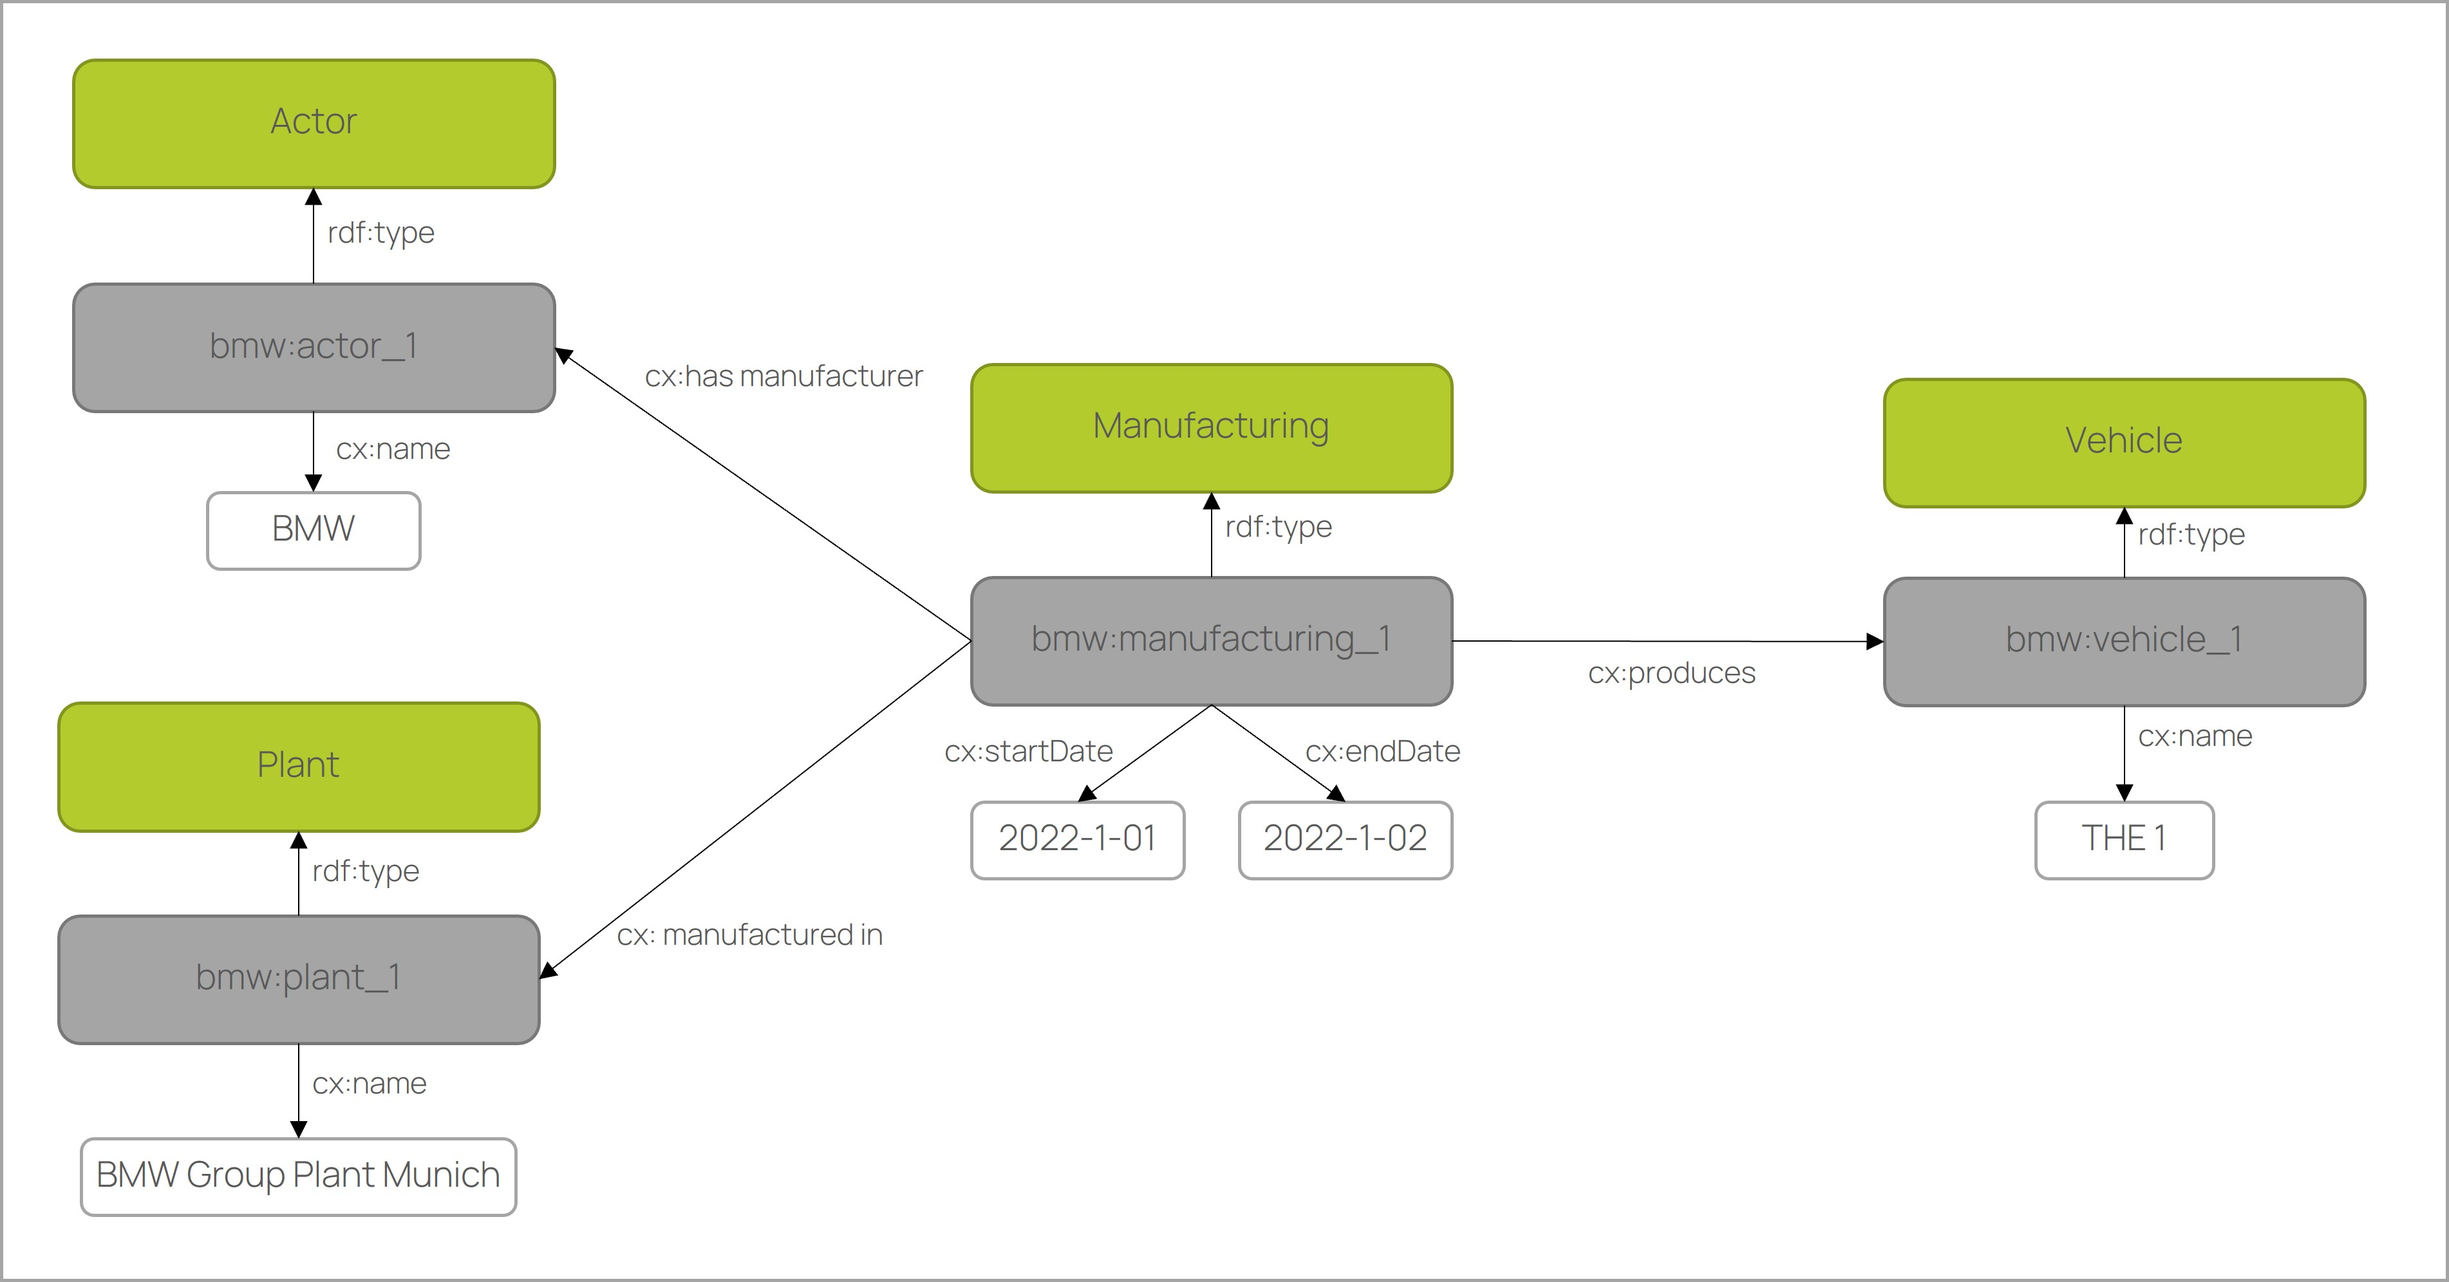
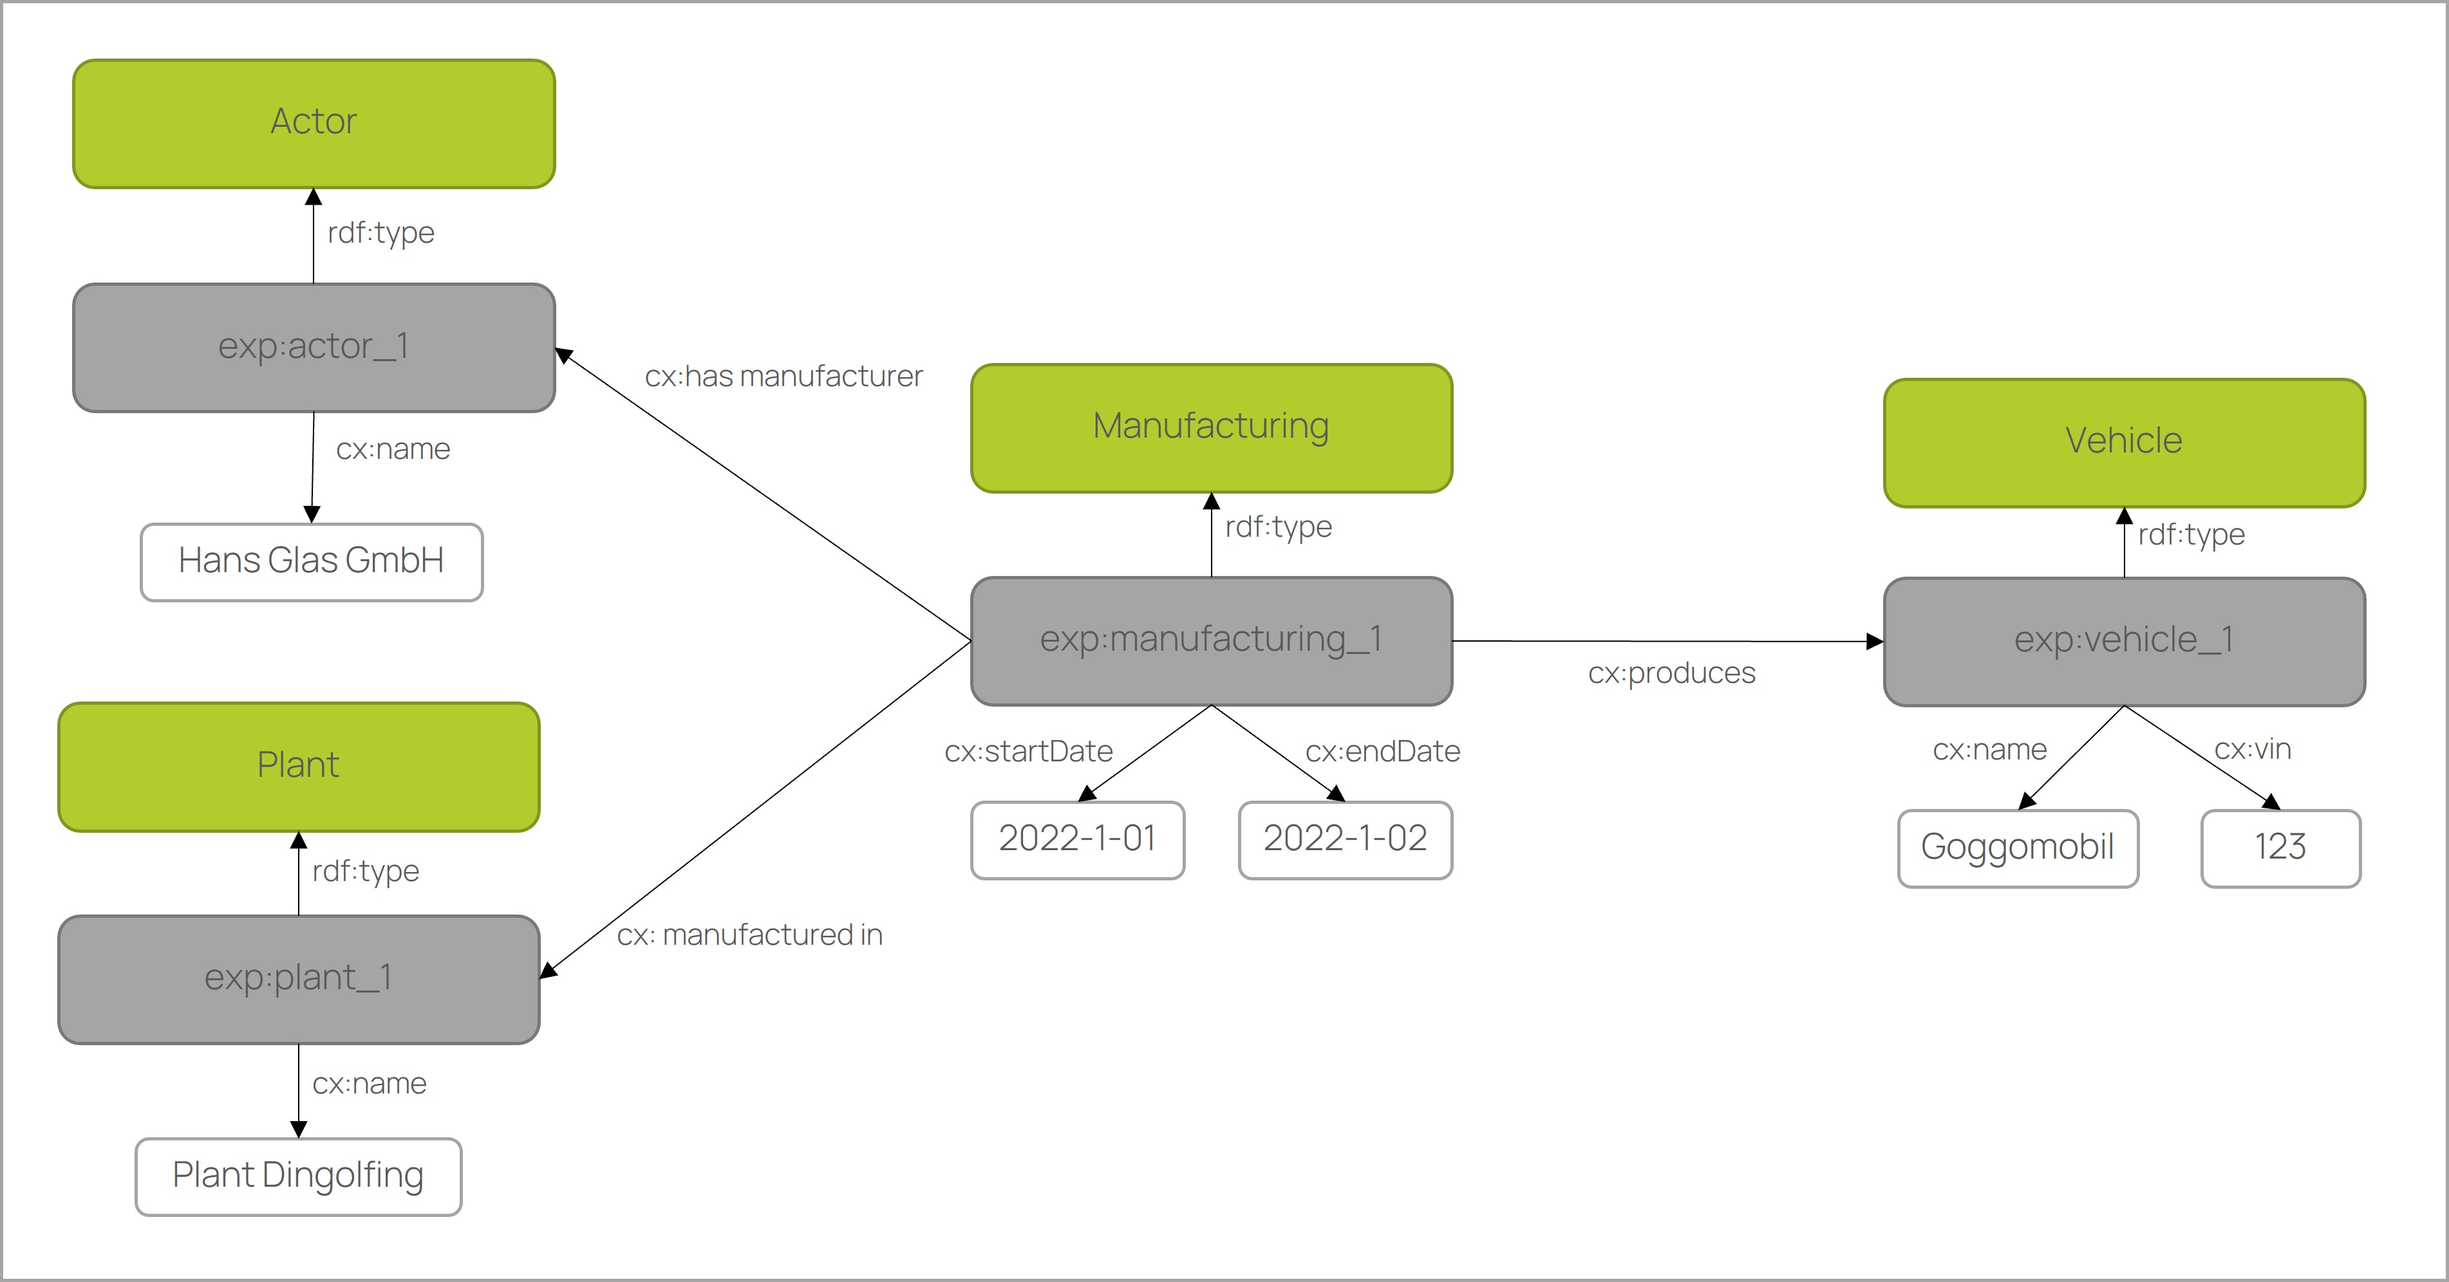
CX - 0000 Ontology Models in Catena-X v.1.0.0 Update

diff --git a/docs/adoption-view/CX-00XX-Ontology Models in Catena-X_v1.0.0.md b/docs/adoption-view/CX-00XX-Ontology Models in Catena-X_v1.0.0.md
@@ -60,7 +60,7 @@ This standard gives fundamental guidelines to create ontology models for being u
 
 ## 1. INTRODUCTION
 
-Semantics is the art and science of understanding what data means. In the context of Catena-X this topic has a significant importance in the sense that data provider and consumer need to have the same understanding what data needs to be shared (see also [FAIR data](https://en.wikipedia.org/wiki/FAIR_data)). In the knowledge agent approach, ontologies are used to describe the semantics of data. Ontologies are similar to data models or data schemas in which the semantics and structure of data are described. In addition, ontologies provide a high degree of semantic expressiveness, i.e. formal semantics. This means that there is a logical system behind the ontologies. This allows automatic inference on data like "p-123" is_a part and part is_a physical object => "p-123" is_a physical object. Such inference enables strong typing of data. This way the machine can understand the meaning of the vocabulary 'part', that it is a physical object and not a document part or a design model part. It could be that the same vocabularies are used for different things in different data models. The formal semantics of ontologies can prevent such misunderstandings in data caused by synonymity or homonymity, etc. and lead to better collaboration and interoperability between data space participants.
+Semantics is the art and science of understanding what data means. In the context of Catena-X this topic has a significant importance in the sense that data provider and consumer need to have the same understanding what data needs to be shared (see also [FAIR data](https://en.wikipedia.org/wiki/FAIR_data)). In the knowledge agent approach, ontologies are used to describe the semantics of data. Ontologies are similar to data models or data schemas in which the semantics and structure of data are described. In addition, ontologies provide a high degree of semantic expressiveness, i.e. formal semantics. This means that there is a logical system behind the ontologies. This allows automatic inference on data like "p-123" is_a part and part is_a physical object => "p-123" is_a physical object. Such inference enables strong typing of data. This way the machine can understand the meaning of the vocabulary 'part', that it is a physical object and not a document part or a design model part. It could be that the same vocabularies are used for different things in different data models. The formal semantics of ontologies prevent such misunderstandings in data caused by synonymity or homonymity, etc. and lead to better collaboration and interoperability among data space participants. On the other hand, the ontology-based approach represents the underlying data in assets as a graph structure. This allows flexible querying of typed and linked data.
 
 In applying the ontology-based data modelling in Catena-X, the following fundamentals should be achieved:
 
@@ -92,7 +92,7 @@ Created ontology models can be utilized as semantic basis for the so called "kno
 
 ### 1.2 CONTEXT
 
-The knowledge agent approach uses the [Semantic Web standards](https://www.w3.org/2001/sw/wiki/Main_Page). The [Semantic Web](https://en.wikipedia.org/wiki/Semantic_Web) is the semantic extension of the Web. In the Web, the content of Web pages is exchanged in a document-based way (Web of Documents). This has the disadvantage that a direct access to a certain content of the documents is not possible. Therefore, a new concept was developed in which the contents of documents are decomposed into data and described by data models (Web of Data). At the same time, a query language was developed with which the desired content can be queried directly. In the Semantic Web, the data models are called ontologies, based on the philosophical meaning 'study of being', because the data on the Web is the digital representation of things in the real world. Semantic Web ontologies are formal languages in which data can be described unambiguously and without redundancy. This makes the ever-growing volumes of data on the web more manageable and usable to generate new knowledge. A good example is the [DBpedia project](https://en.wikipedia.org/wiki/DBpedia), which makes Wikipedia content available as data. In recent years, Semantic Web standards have been increasingly used in enterprises to create enterprise-wide [knowledge graphs](https://en.wikipedia.org/wiki/Knowledge_graph) to structure internal big data and make it queryable to create knowledge. This concept is implemented for Catena-X in the knowledge agent approach.
+The knowledge agent approach uses the [Semantic Web standards](https://www.w3.org/2001/sw/wiki/Main_Page). The [Semantic Web](https://en.wikipedia.org/wiki/Semantic_Web) is the semantic extension of the Web. In the Web, the content of Web pages is exchanged in a document-based way (Web of Documents). This has the disadvantage that a direct access to a certain content of the documents is not possible. Therefore, a new concept was developed in which the contents of documents are decomposed into data and described by data models (Web of Data). At the same time, a query language was developed with which the desired content can be queried directly. In the Semantic Web, the data models are called ontologies, based on the philosophical meaning 'study of being', because the data on the Web is the digital representation of things in the real world. Semantic Web ontologies are formal languages in which data can be described unambiguously and without redundancy. This makes the ever-growing volumes of data on the web more manageable and usable to generate new knowledge. A good example is the [DBpedia project](https://en.wikipedia.org/wiki/DBpedia), which makes Wikipedia content available as data. In recent years, Semantic Web standards have been increasingly used in enterprises to create enterprise-wide [knowledge graphs](https://en.wikipedia.org/wiki/Knowledge_graph) to structure internal big data and make it queryable to create knowledge. This concept is extended in the Knowledge Agent approach to realize data exchange across the Catena-X dataspace.
 
 Semantic Web Standards used in knowledge agent approach
 
@@ -202,7 +202,7 @@ Activity-centred or event-based modelling is a well-known approach (see also [CI
 
 #### **2.1.3 Core and Domain Ontologies**
 
-The concept described above is the basic modelling pattern in Knowledge Agent. We call it the [core ontology](https://github.com/catenax-ng/product-ontology/blob/main/ontology/core_ontology.ttl). Based on this ontology, specific domain ontologies can be modelled. A domain ontology can be created based on subclasses (e.g. Manufacturing is SubClassOf Activity), subrelations (e.g. has Manufacturer is SubPropertyOf has Participant) and subattributes. The domain ontology has the same structure as the core ontology, but can be extended to include additional classes.
+The concept described above is the basic modelling pattern in Knowledge Agent. We call it the [core ontology](https://github.com/catenax-ng/product-ontology/blob/main/ontology/core_ontology.ttl). Based on this ontology, specific domain ontologies can be modelled. A domain ontology can be created based on subclasses (e.g. Manufacturing is SubClassOf Activity), subrelations (e.g. has Manufacturer is SubPropertyOf has Participant) and subattributes. The domain ontology has the same structure as the core ontology, but can be extended to include additional classes. The Knowledge Agent approach uses OWL 2 QL for modeling. This is a subset of OWL 2 Full. The reason for this is that it includes most of the main features of conceptual models such as UML class diagrams and ER diagrams. It also provides polynomial time inference for large data sets.
 
 Benefits of the basic modelling pattern:
 
@@ -237,9 +237,9 @@ The RDF graphs can be accessed using the SPARQL query language via a SPARQL HTTP
 General query example: Returns all physical objects and their name and activities.
 
 ~~~s
-@prefix cx-core: <https://w3id.org/catenax/ontology/core#>
-@prefix rdf: <http://www.w3.org/1999/02/22-rdf-syntax-ns#>
-@prefix bmw: <https://www.bmw.de/catenax/data#>
+PREFIX cx: <https://w3id.org/catenax/ontology/core#>
+PREFIX rdf: <http://www.w3.org/1999/02/22-rdf-syntax-ns#>
+PREFIX exp: <http://www.example.com#>
 
 select ?activity ?physicalObject
 where {
@@ -254,16 +254,16 @@ Query result:
 
 | ?activity   | ?physicalObject |?name|
 | ----------- | ----------- | ----------- |
-|bmw:manufacturing_1|bmw:vehicle_1|"THE 1"|
+|exp:manufacturing_1|exp:vehicle_1|"Goggomobil"|
 
 <br/>
 
 Specific query example: Returns all vehicles and their name and manufacturing activities.
 
 ~~~s
-@prefix cx-core: <https://w3id.org/catenax/ontology/core#>
-@prefix rdf: <http://www.w3.org/1999/02/22-rdf-syntax-ns#>
-@prefix bmw: <https://www.bmw.de/catenax/data#>
+PREFIX cx: <https://w3id.org/catenax/ontology/core#>
+PREFIX rdf: <http://www.w3.org/1999/02/22-rdf-syntax-ns#>
+PREFIX exp: <http://www.example.com#>
 
 select ?activity ?physicalObject
 where {
@@ -280,7 +280,7 @@ Query result is the same as the first one:
 
 | ?activity   | ?physicalObject |?name|
 | ----------- | ----------- | ----------- |
-|bmw:manufacturing_1|bmw:vehicle_1|"THE 1"|
+|exp:manufacturing_1|exp:vehicle_1|"Goggomobil"|
 <br/>
 
 #### **2.1.6 Federated Query**
@@ -289,42 +289,44 @@ An important advantage of SPARQL is that multiple repositories can be accessed f
 
 <br/>
 <div align="center"  width="100%">
-  <img src="images/example_2.jpg" alt="image" width="1000" height="auto" />
+  <img src="images/example.jpg" alt="image" width="1000" height="auto" />
 </div>
 <br/>
 
-Federated query example: Returns all vehicle names from BMW Asset and for the same vehicles the names of the diagnosis results from ADAC Asset.
+Federated query example: Returns all vehicle names from OEM Asset and for the same vehicles the names of the diagnosis results from Service Asset.
 
 ~~~s
-@prefix cx-core: <https://w3id.org/catenax/ontology/core#>
-@prefix rdf: <http://www.w3.org/1999/02/22-rdf-syntax-ns#>
+PREFIX cx: <https://w3id.org/catenax/ontology/core#>
+PREFIX rdf: <http://www.w3.org/1999/02/22-rdf-syntax-ns#>
 
-select ?vehicleName ?diagnosisResultName
+select ?vehicleName ?vehicleVin ?vehicleVin ?diagnosisResultName
 where {
-
-  # BMW Asset
-  SERVICE <https://www.bmw.de/catenax/asset_1> {
-
-    ?physicalObject rdf:type cx:Vehicle.
-    ?physicalObject cx:name ?vehicleName.
-
-    #ADAC Asset
-    SERVICE <https://www.adac.de/catenax/asset_1> {
-
-      ?physicalObject rdf:type cx:Vehicle.
-      ?activity cx:refersToConceptualObject ?conceptualObject.
-      ?conceptualObject cx:name ?diagnosisResultName.
-
+  
+  # OEM Asset
+  SERVICE <https://catena-x.net/asset/oem/asset_1> {
+    ?physicalObjectOEM rdf:type cx:Vehicle.
+    ?physicalObjectOEM cx:vin ?vehicleVin.
+    
+    #Service Asset
+    SERVICE <https://catena-x.net/asset/service/asset_2> {
+      ?physicalObjectService rdf:type cx:Vehicle.
+      ?physicalObjectService cx:vin ?vehicleVin.
+      ?physicalObjectService cx:name ?vehicleName.
+      ?activity rdf:type cx:Diagnosis.      
+      ?activity cx:refersToPhysicalObject ?physicalObjectService.
+      ?activity cx:refersToConceptualObject ?conceptualObject.
+      ?conceptualObject cx:name ?diagnosisResultName.
     }
-  }
+  }
 }
+
 ~~~
 
 Federated Query result:
 
-| ?vehicleName   | ?diagnosisResultName |
-| ----------- | ----------- |
-|"THE 1"|"Cylinder misfire"|
+| ?vehicleName   | ?vehicleVin | ?diagnosisResultName |
+| ----------- | ----------- | ----------- |
+|"Goggomobil"| "123" |"Cylinder misfire"|
 
 <br/>
 
@@ -343,7 +345,7 @@ This section defines modelling guidelines that help develop compliant domain ont
 
 #### **2.2.1 Content Modelling Guidelines**
 
-In order to effectively develop useful and reusable ontologies, all of the following modelling guidelines must be followed.
+In order to effectively develop useful and reusable ontologies, all of the following modelling guidelines SHOULD be followed.
 
 - G11 Define business requirments
   - Who knows, produces, consumes the data?
@@ -372,12 +374,11 @@ In order to effectively develop useful and reusable ontologies, all of the follo
   - Specify the (machine-readable) identifier in English
   - Use only noun or a phrase of nouns in lower case with whitespaces
   - Use generic terms here, so that everyone can easily understand the meaning
-  - Don't acronyms and abbreviations here
+  - Don't use acronyms and abbreviations here
   - Specify the (human-readable) name in English and German
   - Use only noun or a phrase of nouns in title case with whitespaces
   - Use business terms here, so that the business department can easily understand the meaning
   - Specify the definition in English, only short sentence
-  - Specify the synonyms in English and German
 - G15 Create Relations
   - Check & reuse if realtion already exists in core ontology, check also for the synonyms
   - Specify the (machine-readable) identifier in English
@@ -385,7 +386,6 @@ In order to effectively develop useful and reusable ontologies, all of the follo
   - Don't invent new relations, instead reuse existing relations
   - Specify the domain
   - Specify the range
-  - Specify the inverse relation
 - G16 Create Attributes
   - Check & reuse if attribute already exists in core ontology, check also for the synonyms
   - Specify the (machine-readable) identifier in English
@@ -396,7 +396,6 @@ In order to effectively develop useful and reusable ontologies, all of the follo
   - Don't use verbs in attribute identifiers
   - Specify the (human-readable) name in English and German
   - Use a noun or a phrase of nouns in title case with whitespaces (similar to column names)
-  - Use business terms here, so that the business department can easily understand the meaning
   - Don't use verbs in attribute names
   - Specify the definition in English
   - Specify the range
@@ -428,7 +427,7 @@ All ontology models in Catena-X MUST comply with the following guidelines:
 
 - G32 Identifiers/URIs
   - Use only alphanumeric characters [A-z0-9] (IRI/URI standard)
-  - Do not use acronyms or abbreviations allowed in URIs
+  - Don't use acronyms or abbreviations allowed in URIs
   - Use PascalCase/UpperCamelCase for classes (RDF/OWL standard)
   - Use camelCase/lowerCamelCase for relations and attributes (RDF/OWL standard)
 
@@ -471,7 +470,19 @@ All ontology models in Catena-X MUST comply with the following guidelines:
     [Optional] - Links to related Catena-X or external standards that need to be
     meet in order to fulfil this standard. If no external standards need to be
     met, leave empty.
+
+
 ~~~
+
+[OWL 2 QL Profile](https://www.w3.org/TR/owl2-profiles/#OWL_2_QL) <br>
+[SKOS](https://www.w3.org/2004/02/skos/)<br>
+[RML](https://rml.io/specs/rml/)<br>
+[R2RML](https://www.w3.org/TR/2012/REC-r2rml-20120927/)<br>
+[SHACL](https://www.w3.org/TR/shacl/)<br>
+[RDF](https://www.w3.org/TR/rdf12-concepts/)<br>
+[Turtle](https://www.w3.org/TR/turtle/) <br>
+[SPARQL](https://www.w3.org/TR/sparql11-query/)<br>
+[CX-0084-FederatedQueriesInDataSpaces-v1.0.0](https://github.com/catenax-ng/product-catena-x-standardization/blob/main/standards/CX-0084-FederatedQueriesInDataSpaces/1.0.0/CX-0084-FederatedQueriesInDataSpaces-v1.0.0.md)
 
 <br/>
 
